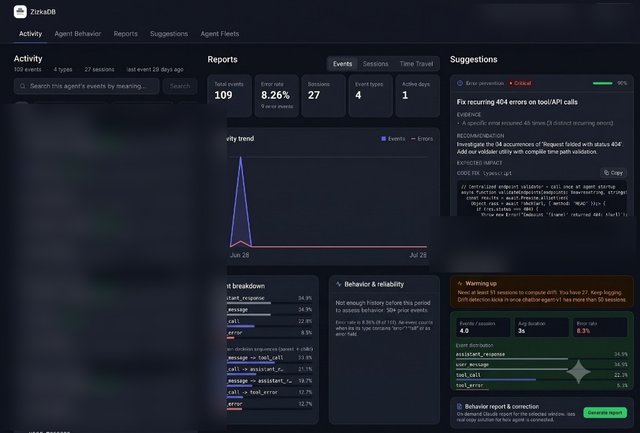
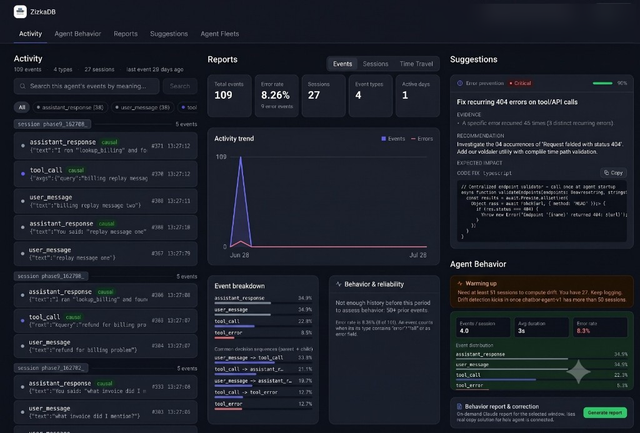
fix(docs): keep Activity feed visible in README hero screenshot
Only blur the agent dropdown and account badge; stop redacting session events and payloads in the hero image.

diff --git a/scripts/sanitize-readme-hero.py b/scripts/sanitize-readme-hero.py
@@ -1,8 +1,8 @@
 #!/usr/bin/env python3
 """Sanitize a dashboard screenshot for public README use.
 
-Blurs agent selector, account badge, and event-feed text (session IDs + payloads).
-Outputs hero-dashboard.png and a smaller gallery-dashboard.png for README embeds.
+Blurs only account-level identifiers (agent dropdown + profile badge).
+Activity feed, events, reports, and suggestions stay fully visible.
 """
 
 from __future__ import annotations
@@ -15,11 +15,9 @@ from PIL import Image, ImageFilter
 ROOT = Path(__file__).resolve().parents[1]
 ASSETS = ROOT / "docs" / "assets"
 
-# Fractional regions (x0, y0, x1, y1) applied after resize.
+# Fractional regions (x0, y0, x1, y1) — keep tight; do not blur Activity feed.
 BLUR_REGIONS = [
     (0.66, 0.01, 0.995, 0.095),  # agent dropdown + account badge
-    (0.0, 0.24, 0.355, 0.995),  # session IDs + event JSON in Activity feed
-    (0.67, 0.50, 0.995, 0.63),  # agent name in Behavior panel (right column)
 ]
 
 

diff --git a/docs/assets/RECORD_DEMO.md b/docs/assets/RECORD_DEMO.md
@@ -8,8 +8,9 @@ The README hero uses `hero-dashboard.png`. Regenerate from a fresh screenshot wi
 python scripts/sanitize-readme-hero.py path/to/screenshot.png
 ```
 
-That blurs agent names, account badge, session IDs, and event payloads before writing
+That blurs only the agent dropdown and account badge before writing
 `docs/assets/hero-dashboard.png` and `docs/assets/gallery-dashboard.png`.
+The Activity feed and event payloads remain visible.
 
 For a **live terminal** recording (~15s loop), use `python scripts/demo-why.py` after setup.
 
